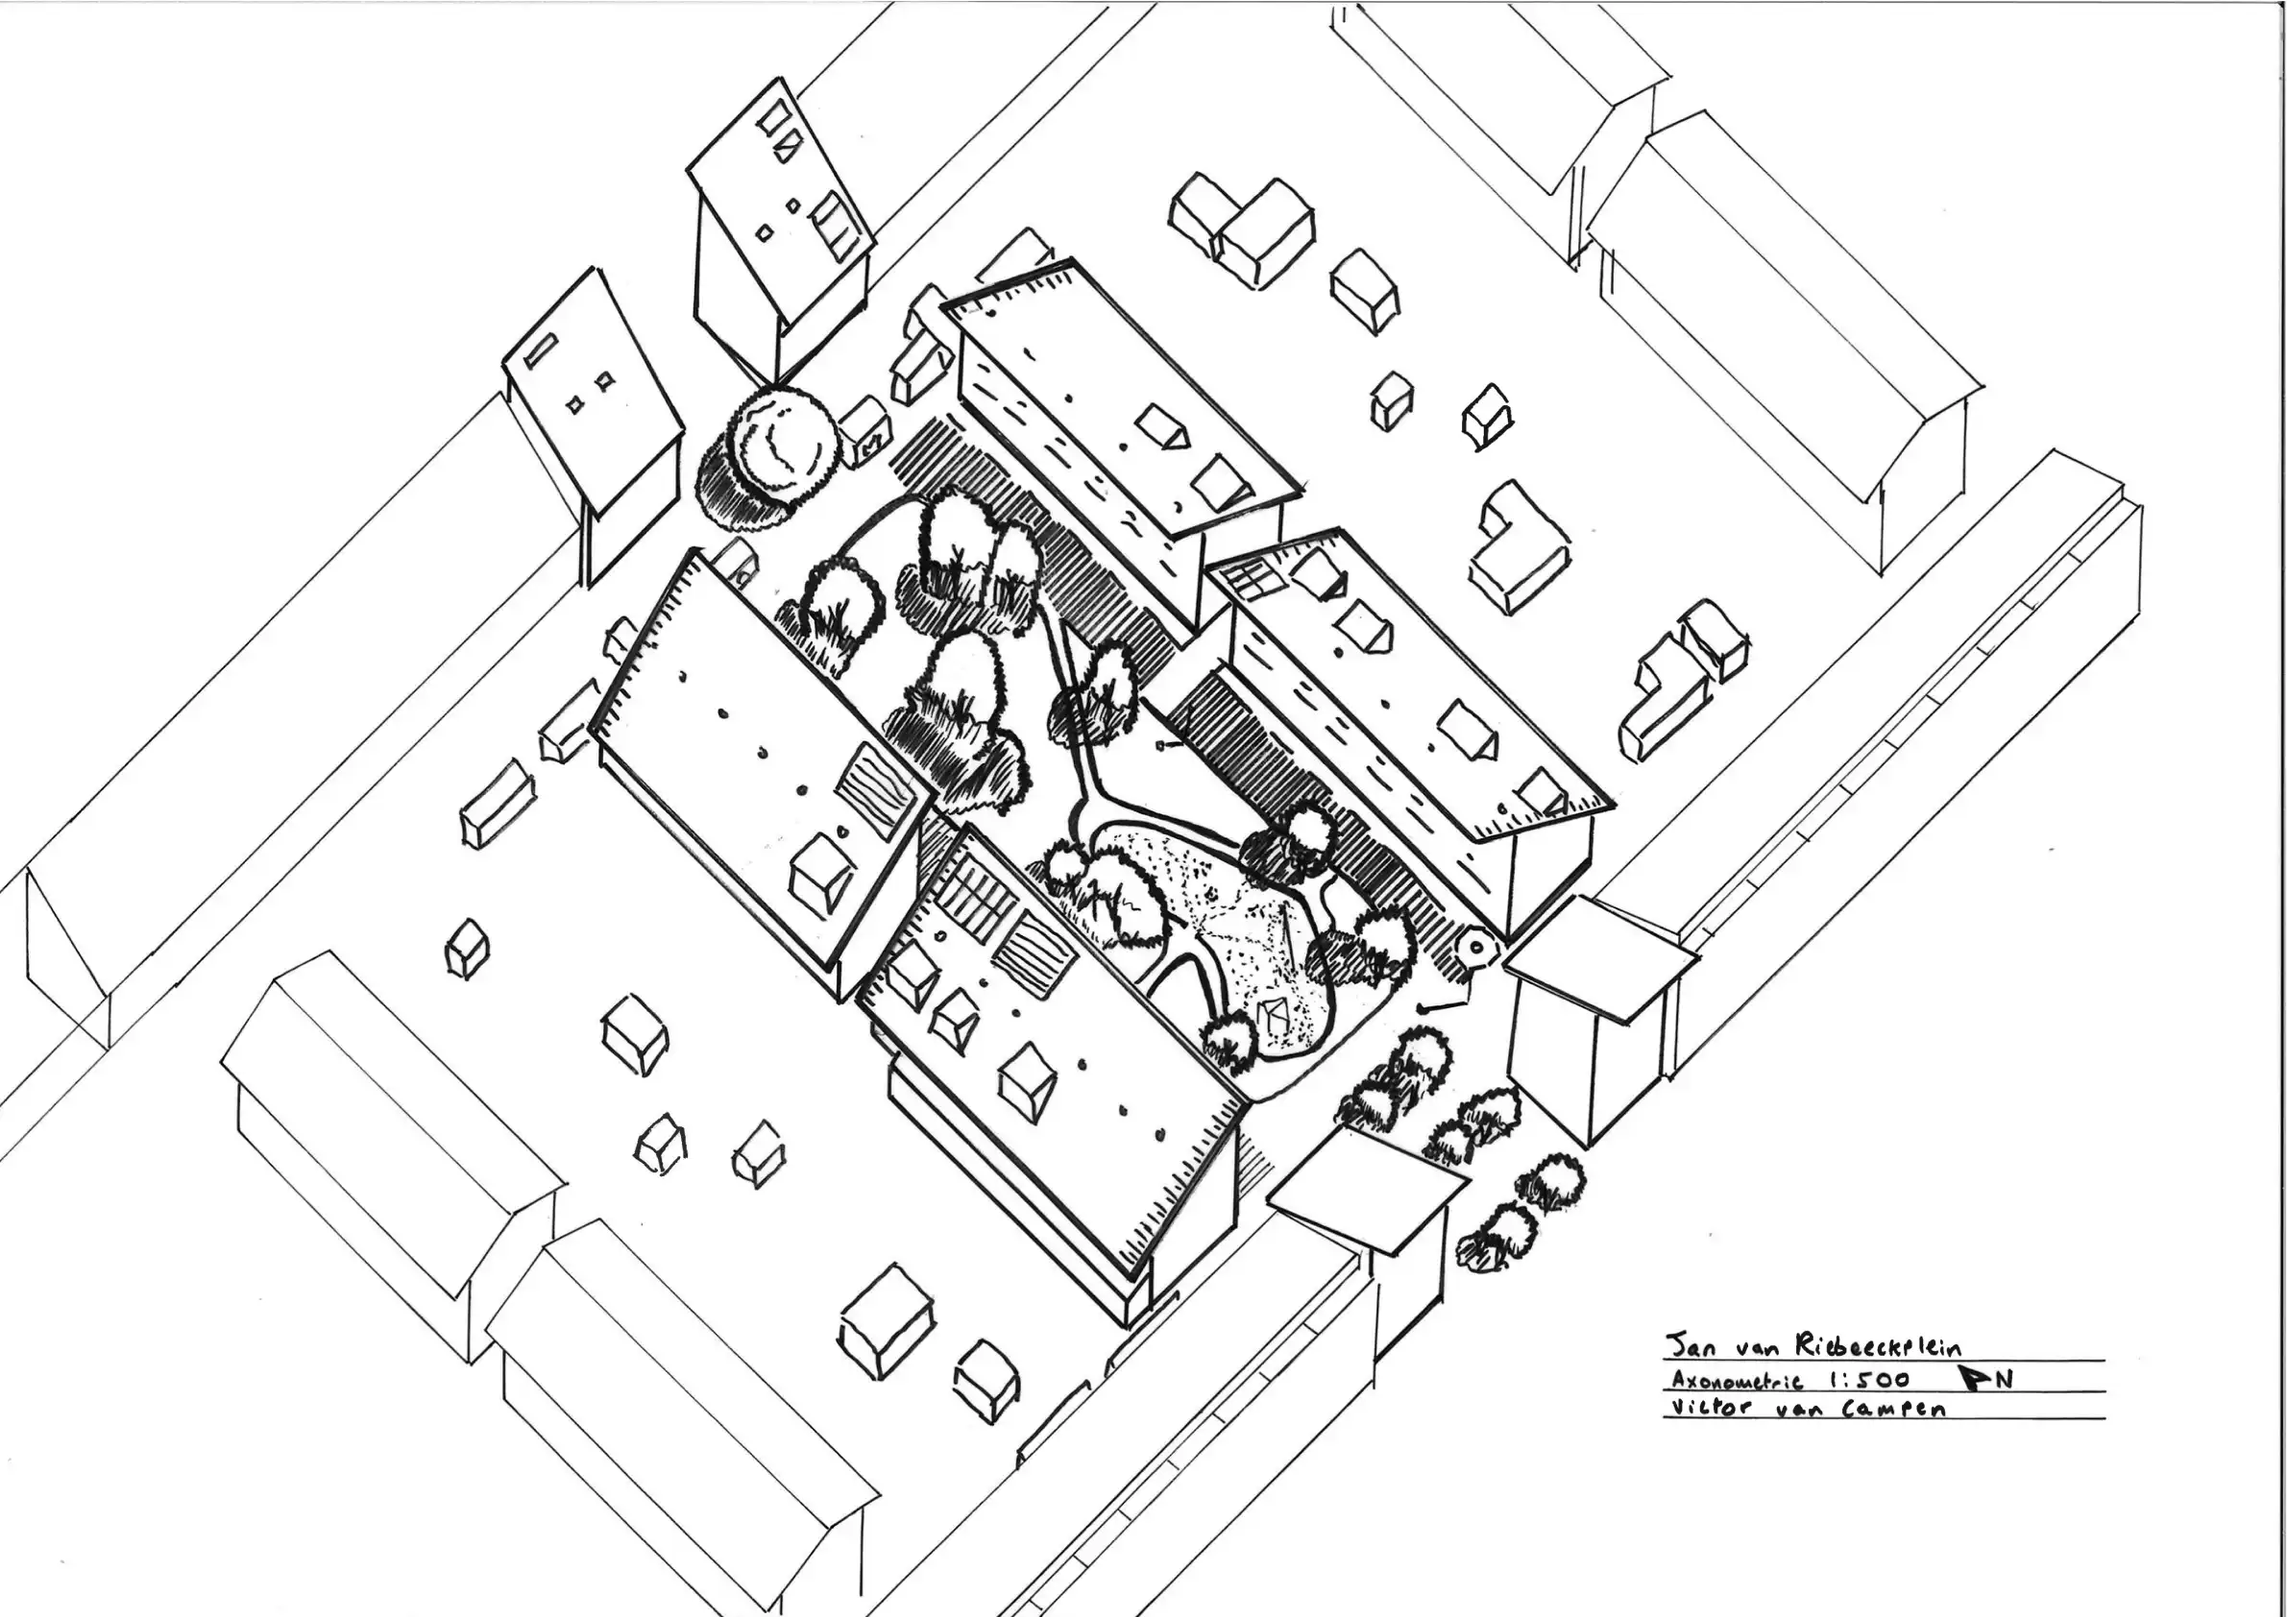
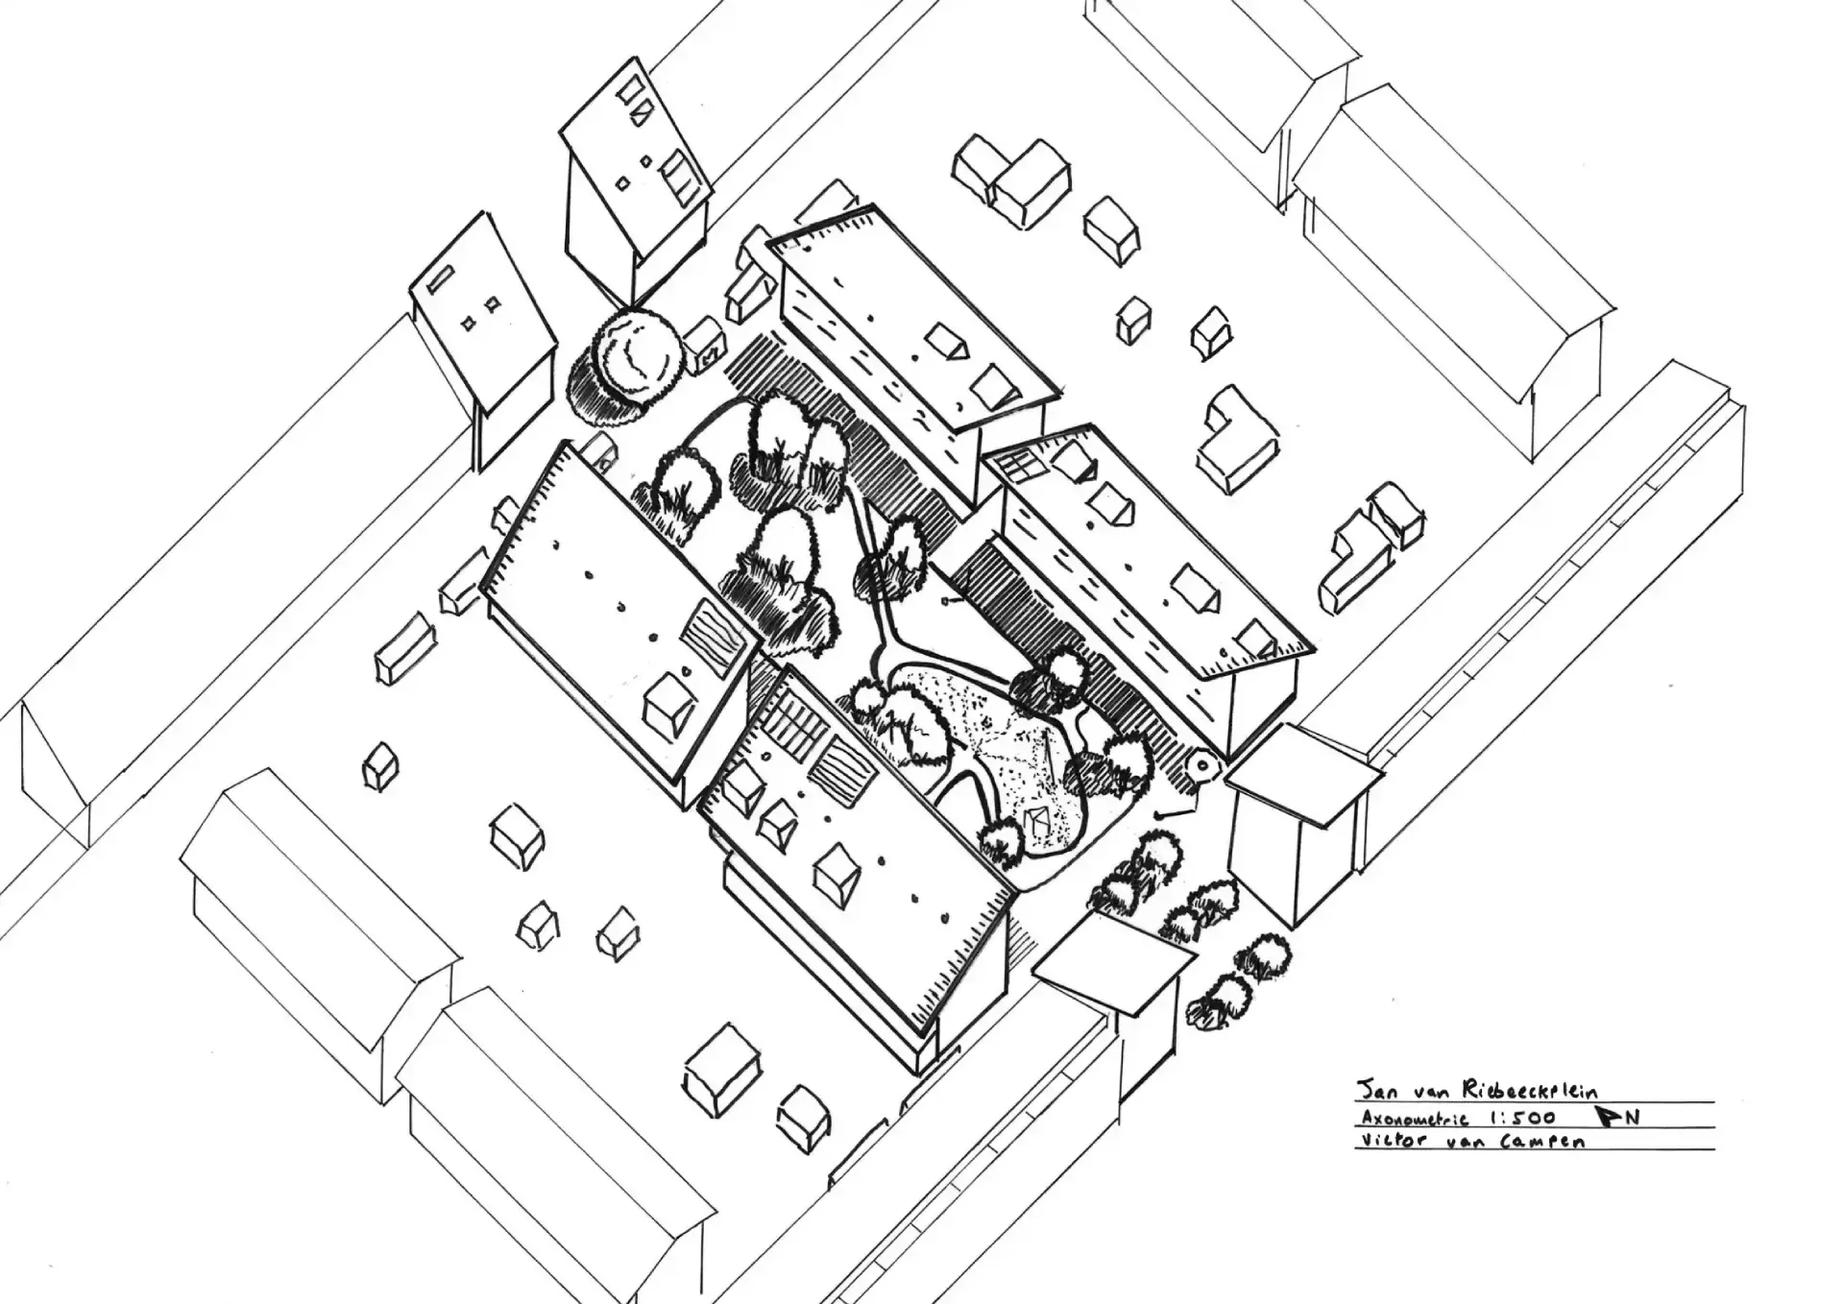
Content updates

diff --git a/content/ontwerp/_index.md b/content/ontwerp/_index.md
@@ -12,8 +12,13 @@ title = "Uitgevoerd ontwerp voor een natuurlijke, klimaatbestendige en bijenvrie
 [resources.params]
 category = "tuin"
 [[resources]]
-src = "Landschapsplan.webp"
+src = "Landschapsplan-1.webp"
 title = "Vergelijking van de hitorische met de actuele beplantingsstructuur bij een beplantingsplan voor een paardenhouderij. (Opleidingsproduct)"
+[resources.params]
+category = "publiek"
+[[resources]]
+src = "Landschapsplan-2.webp"
+title = "Uitvoeringsgereed beplantingsplan voor een paardenhouderij. (Opleidingsproduct)"
 [resources.params]
 category = "publiek"
 [[resources]]
